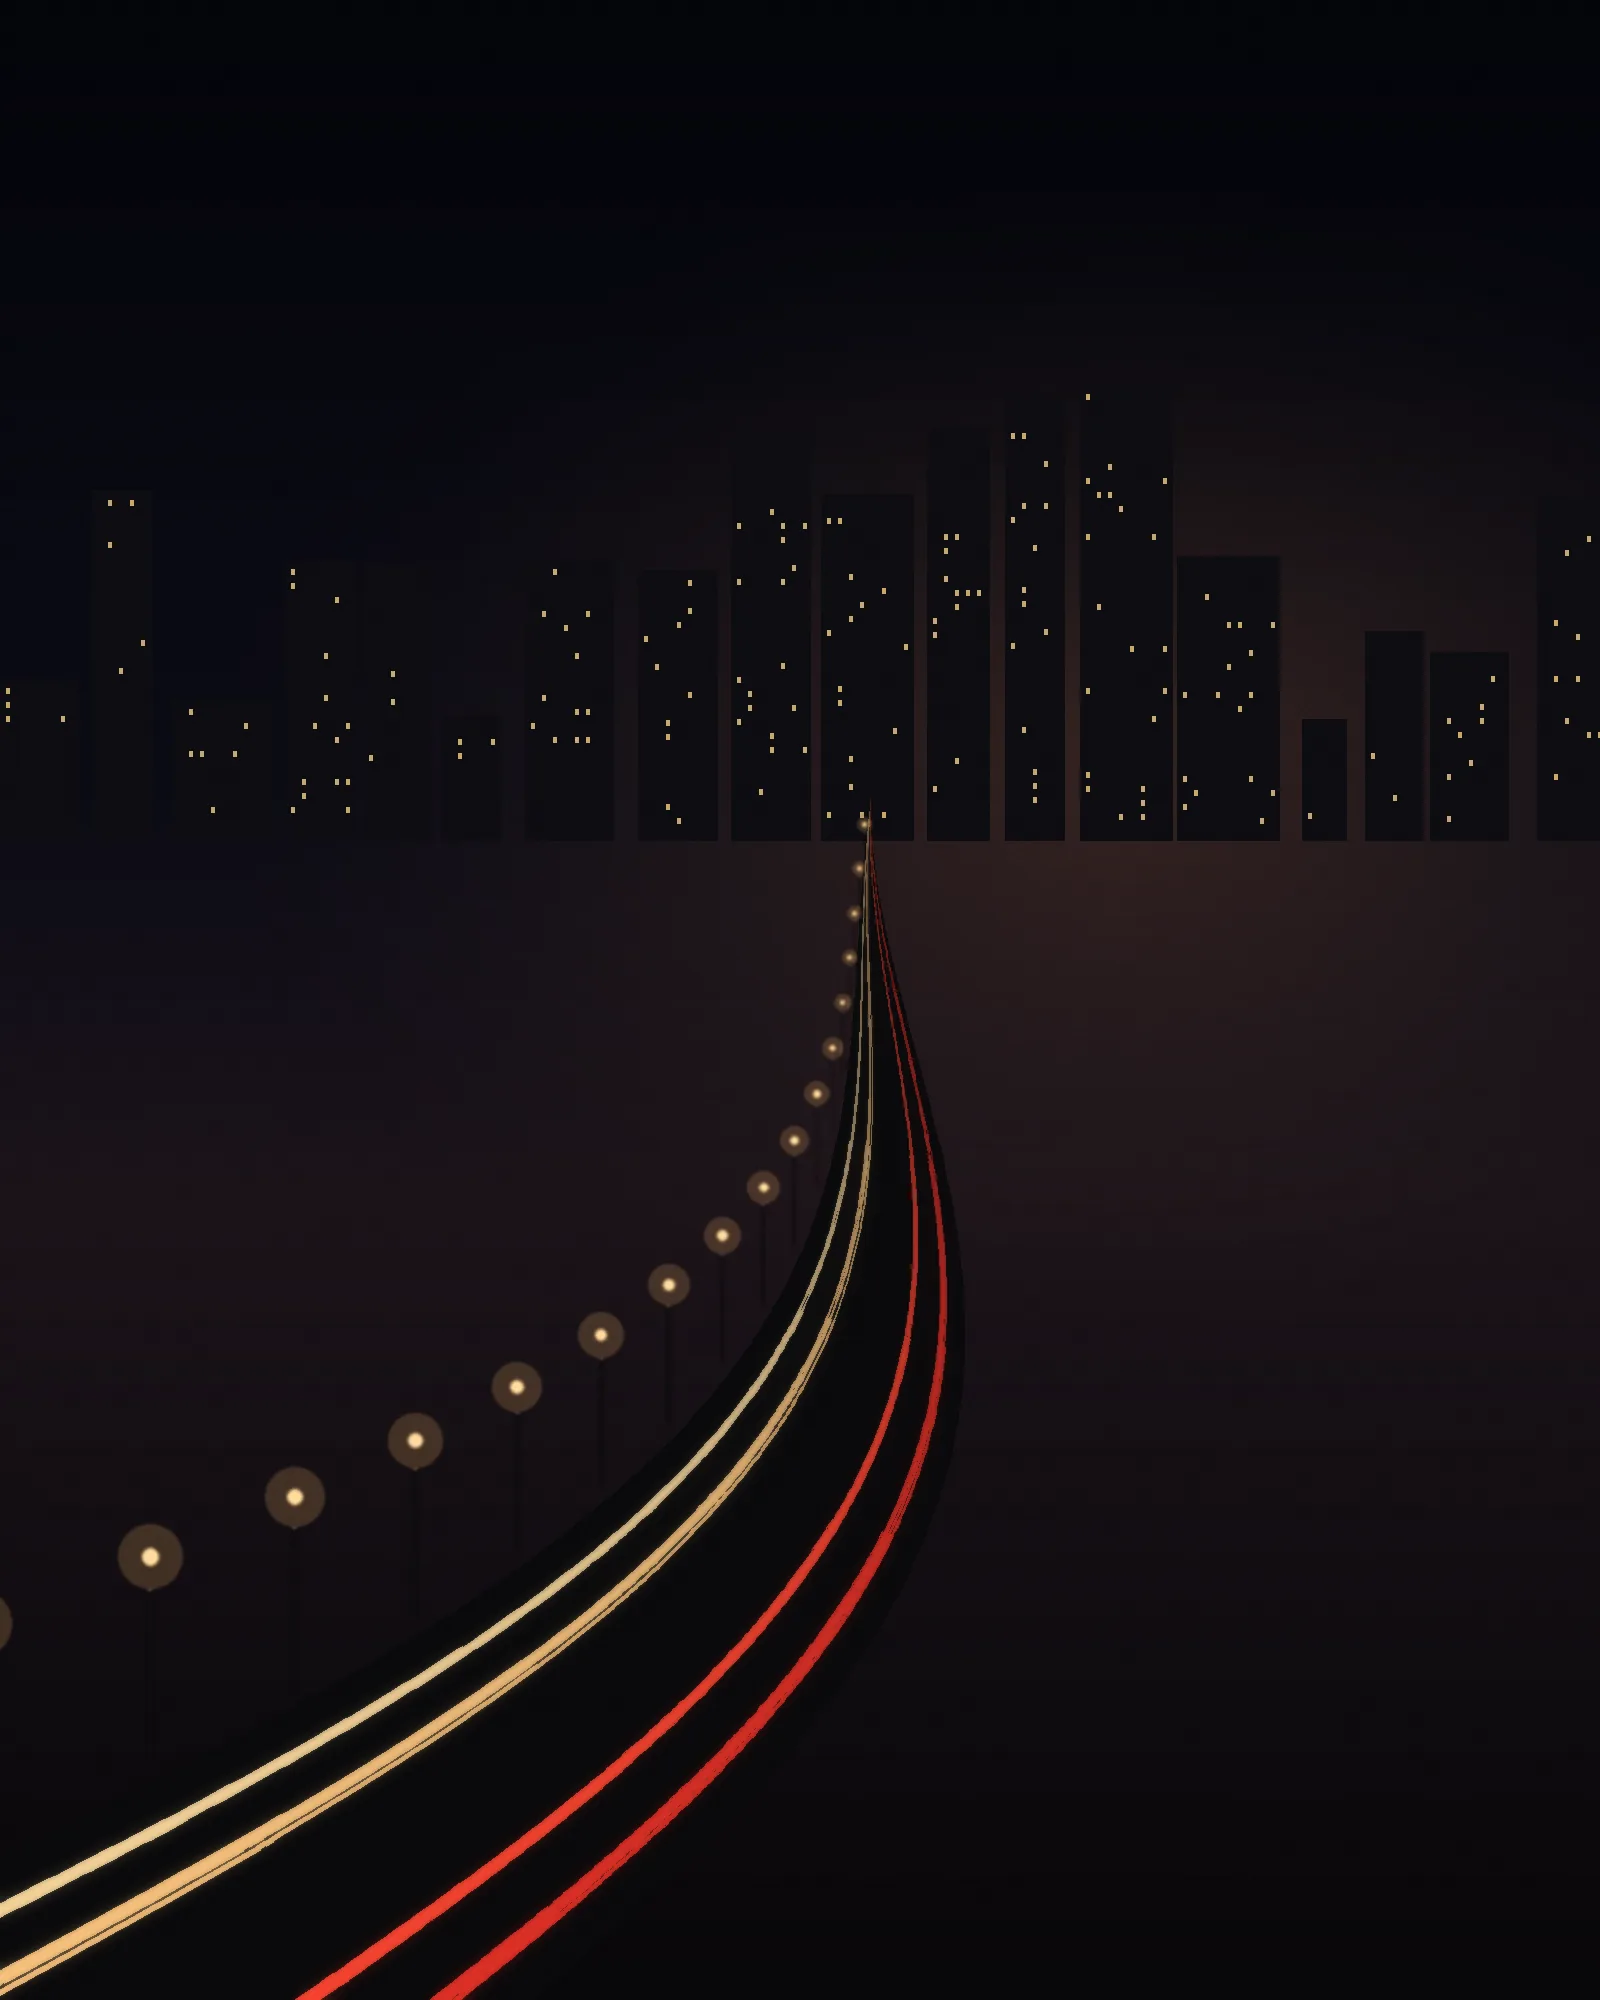
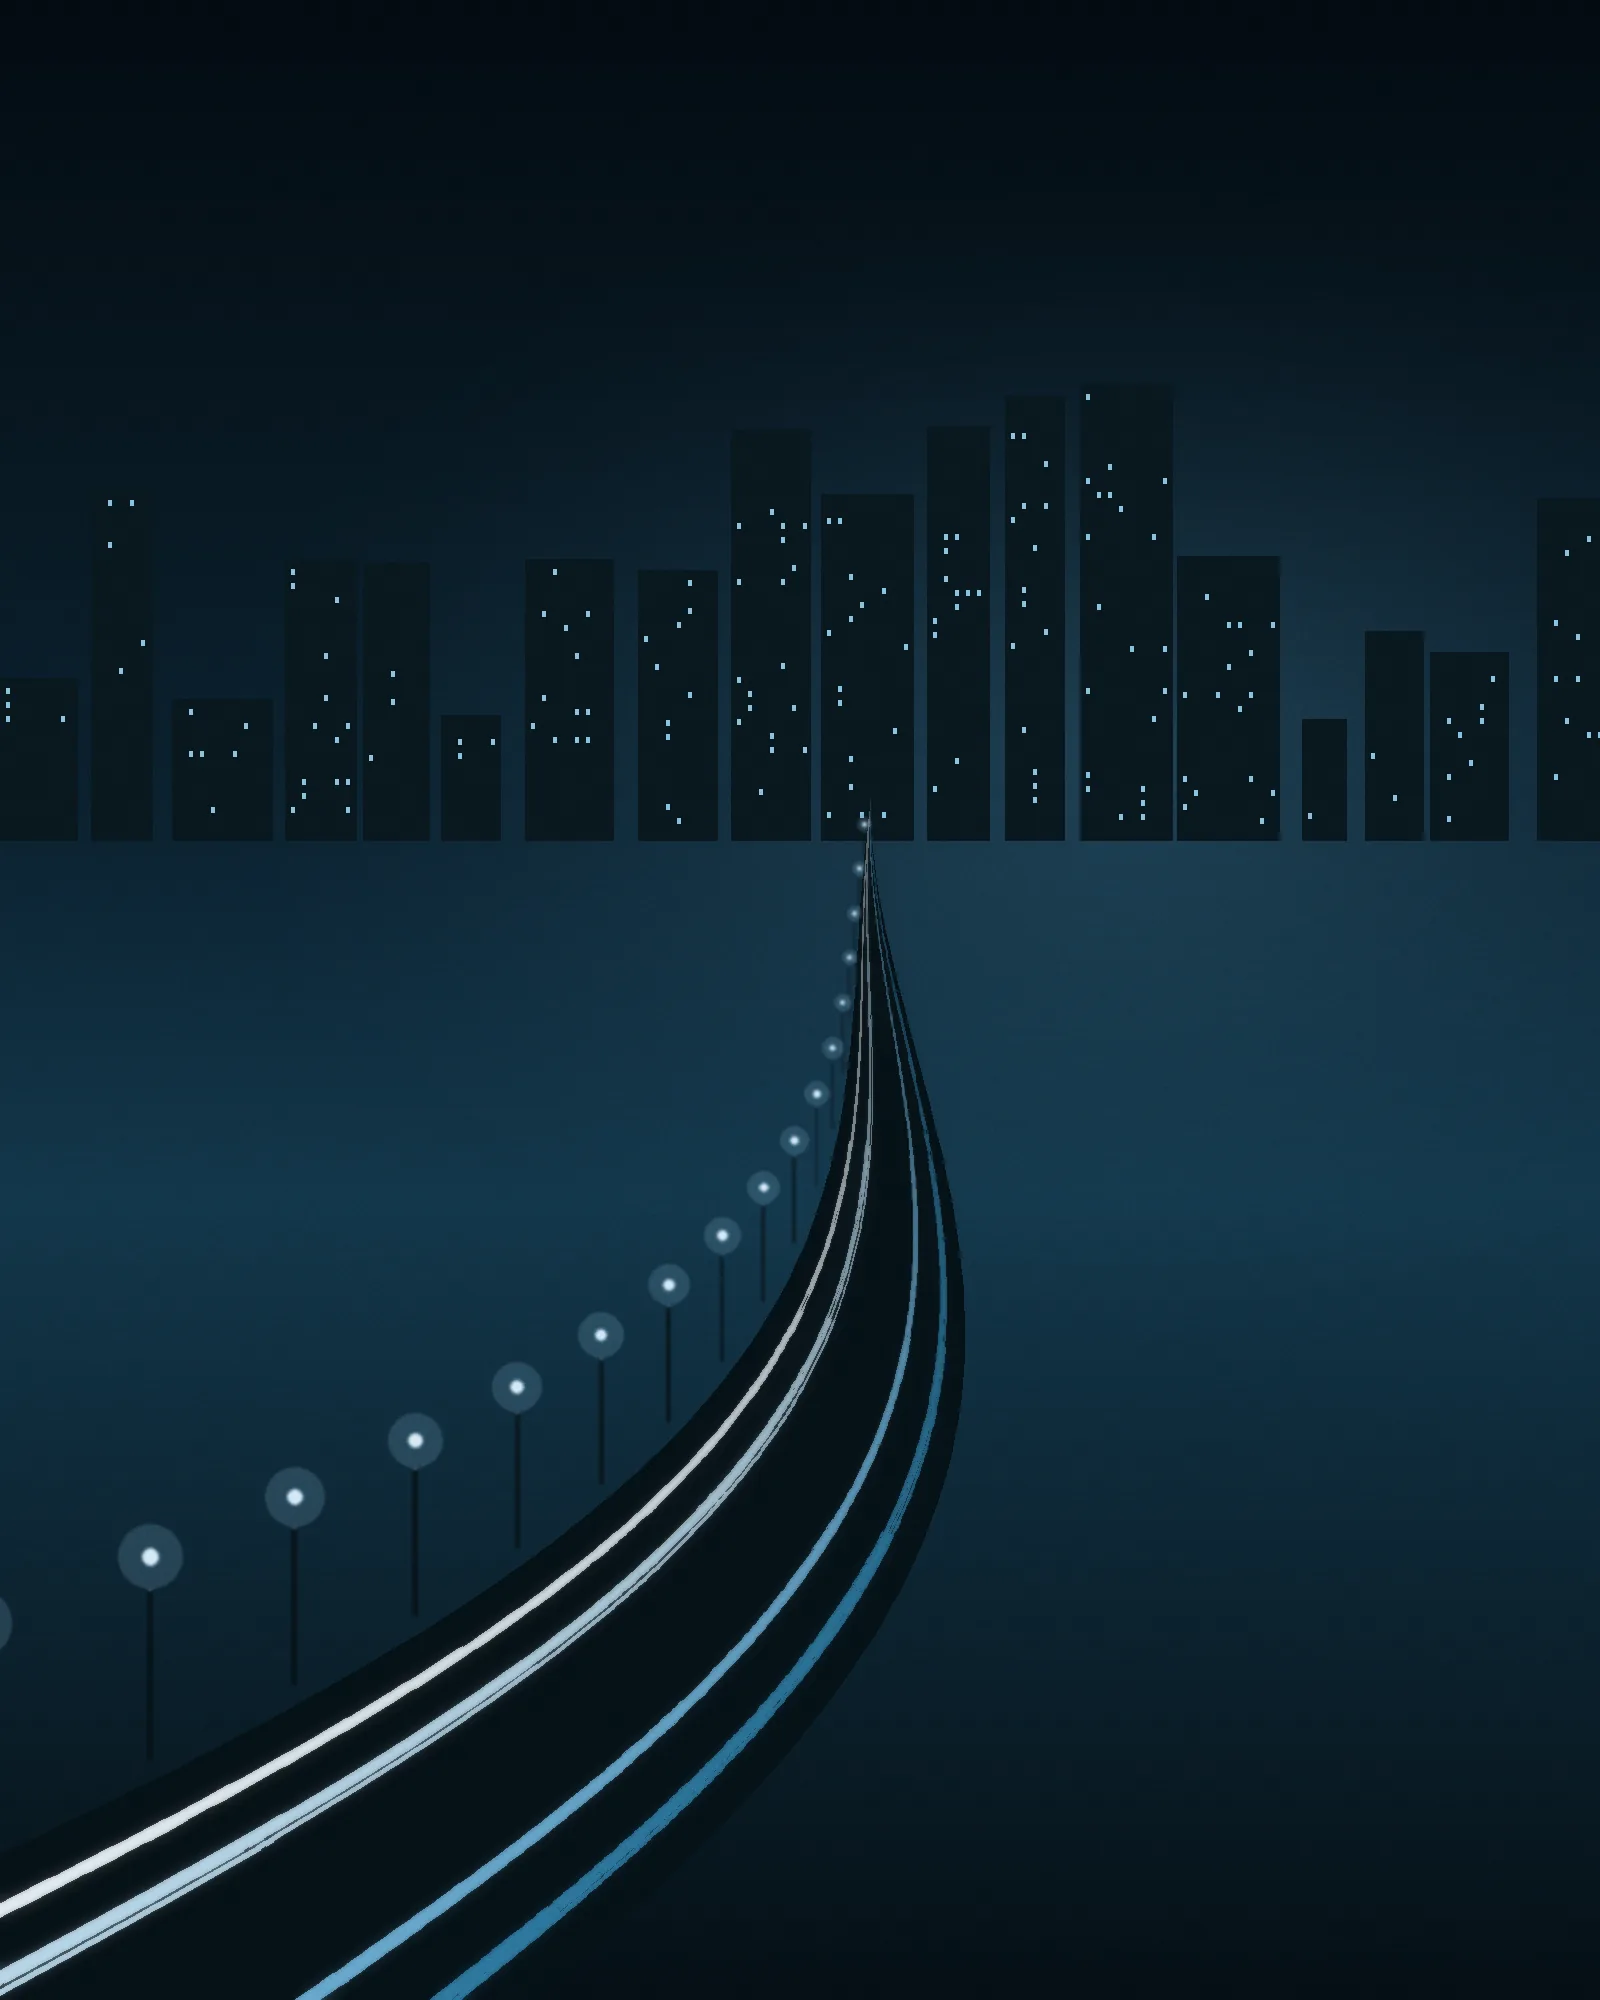
feat(art): repaint light trails in white and steel blue over a blue-teal night

diff --git a/scripts/art/light_trails.py b/scripts/art/light_trails.py
@@ -20,15 +20,15 @@ def curve(t, lane):
 
 def main():
     img = Image.new("RGBA", (W, H), (0, 0, 0, 255))
-    img.paste(vertical_gradient((W, H), [(0.0, (4, 5, 10)), (0.4, (12, 12, 22)), (0.6, (28, 20, 26)), (1.0, (8, 7, 10))]), (0, 0))
-    img.alpha_composite(radial_glow((W, H), (int(W * 0.7), int(H * 0.38)), 600, (180, 110, 70), strength=70, squash=1.6))
+    img.paste(vertical_gradient((W, H), [(0.0, (4, 12, 18)), (0.4, (12, 34, 48)), (0.6, (20, 56, 76)), (1.0, (6, 16, 22))]), (0, 0))
+    img.alpha_composite(radial_glow((W, H), (int(W * 0.7), int(H * 0.38)), 600, (90, 160, 196), strength=70, squash=1.6))
 
     d = ImageDraw.Draw(img)
     # Distant towers on the skyline.
     x = 0
     while x < W:
         bw, bh = rnd.randint(40, 120), rnd.randint(80, 420)
-        d.rectangle([x, H * 0.4 - bh, x + bw, H * 0.42], fill=(14, 13, 18))
+        d.rectangle([x, H * 0.4 - bh, x + bw, H * 0.42], fill=(10, 24, 32))
         for wy in range(int(H * 0.4 - bh) + 10, int(H * 0.41), 14):
             for wx in range(x + 6, x + bw - 6, 11):
                 if rnd.random() < 0.08:
@@ -37,12 +37,12 @@ def main():
 
     # Road surface between the outer lanes.
     road = [curve(t / 100, -1.2) for t in range(101)] + [curve(t / 100, 1.2) for t in range(100, -1, -1)]
-    d.polygon(road, fill=(10, 10, 12))
+    d.polygon(road, fill=(6, 18, 24))
 
     trails = Image.new("RGBA", (W, H), (0, 0, 0, 0))
     td = ImageDraw.Draw(trails)
     # Warm head-light trails on one side, red tail-lights on the other.
-    for lane, colour in [(-0.9, (255, 220, 160)), (-0.5, (255, 200, 130)), (0.5, (255, 70, 50)), (0.9, (230, 50, 40))]:
+    for lane, colour in [(-0.9, (236, 246, 252)), (-0.5, (190, 222, 240)), (0.5, (110, 176, 214)), (0.9, (49, 126, 166))]:
         for strand in range(6):
             jitter = rnd.uniform(-0.06, 0.06)
             pts = [curve(t / 300, lane + jitter) for t in range(301)]
@@ -61,10 +61,10 @@ def main():
         t = (k / 18) ** 0.8
         x, y = curve(t, -1.35)
         h = 220 * (1 - t) + 20
-        lp.line([(x, y), (x, y - h)], fill=(18, 18, 20, 255), width=max(1, int(6 * (1 - t))))
+        lp.line([(x, y), (x, y - h)], fill=(10, 22, 28, 255), width=max(1, int(6 * (1 - t))))
         r = max(2, 10 * (1 - t))
-        lp.ellipse([x - r * 4, y - h - r * 4, x + r * 4, y - h + r * 4], fill=(255, 190, 110, 50))
-        lp.ellipse([x - r, y - h - r, x + r, y - h + r], fill=(255, 220, 160, 255))
+        lp.ellipse([x - r * 4, y - h - r * 4, x + r * 4, y - h + r * 4], fill=(140, 195, 224, 50))
+        lp.ellipse([x - r, y - h - r, x + r, y - h + r], fill=(214, 233, 244, 255))
     img.alpha_composite(lamps.filter(ImageFilter.GaussianBlur(1.5)))
 
     save(finish(img), "scene-light-trails.webp")
